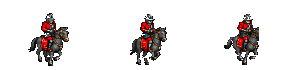
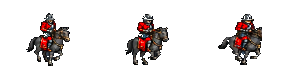
cuirassier E gallop frames stretched to the side view's width (they turned toward the camera and the horse pumped narrow)
Claude-Session: https://claude.ai/code/session_01NtmEZhP1uA8k4DLQ7BYfMz

Changed region(s): [[0.7347, 0.2, 0.9184, 0.9429], [0.4286, 0.2, 0.5816, 0.9429], [0.0918, 0.1714, 0.2449, 0.9429]]

diff --git a/tools/import_round4.py b/tools/import_round4.py
@@ -354,7 +354,10 @@ UNITS = {
                         norm=["walk", "idle", "attack", "cast"], borrow={"death": "idle"}),
     "cuirassier": dict(scale=0.48, target=51,                         # horse ~ the cannon's
                        norm=["idle", "walk", "slash"], borrow={"thrust": "slash", "death": "idle"},
-                       widen={2: 1.2, 1: 1.08}),     # E (side) and SE rows drew the horse squashed
+                       widen={2: 1.2, 1: 1.08},      # E (side) and SE rows drew the horse squashed
+                       # E gallop frames 1-2 turn toward the camera (narrower horse): stretch
+                       # them to the idle side view's width so the gallop doesn't pump in and out
+                       widen_frame={(2, "walk", 0): 1.07, (2, "walk", 1): 1.19, (2, "walk", 2): 1.26}),
     "spore_mother": dict(scale=0.6, glow="green", target=58,          # about the Brute
                          norm=["walk", "idle", "fire"], borrow={"death": "fire"},
                          last={"root": 54},           # the rooted pose: same size in every row
@@ -534,7 +537,8 @@ class Src:
 
     def raw(self, r, g, i, scale):
         img, gl = to_game(self.frames[(r, g)][i]["img"], scale, self.bgc, self.cfg.get("glow"),
-                          sx=self.cfg.get("widen", {}).get(r, 1.0))
+                          sx=self.cfg.get("widen", {}).get(r, 1.0)
+                          * self.cfg.get("widen_frame", {}).get((r, g, i), 1.0))
         return F(img, gl)
 
     def hs(self, r, g):
